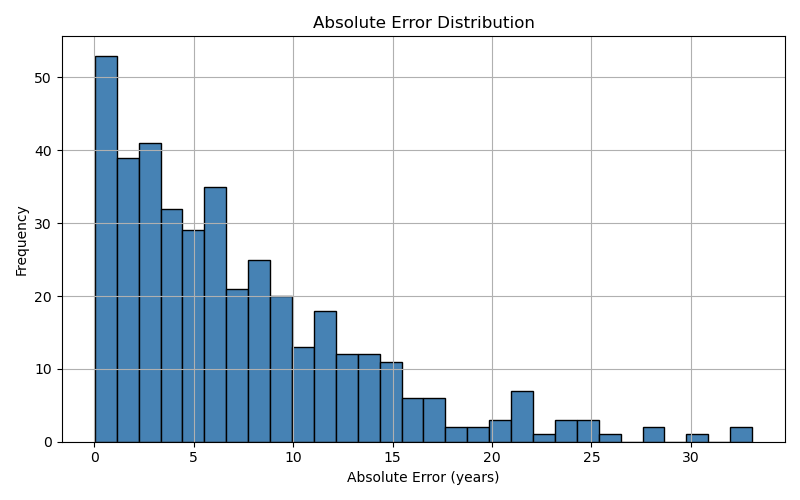
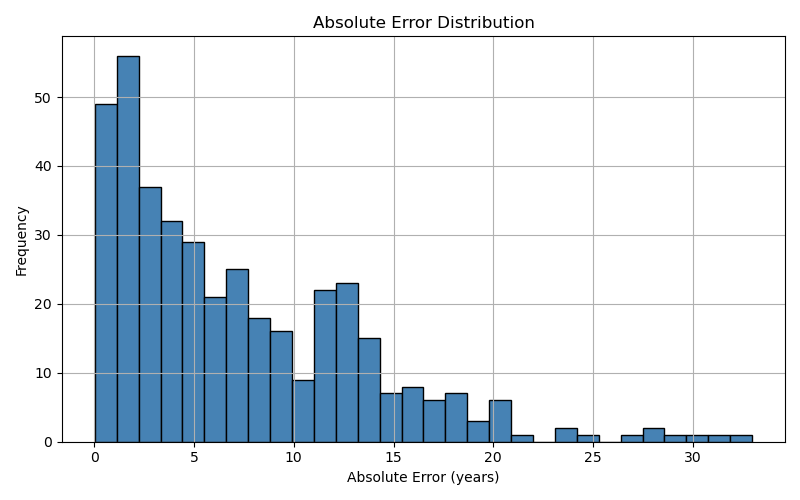
Versión nueva con Function Loss personaliza más sensible ante outliers

diff --git a/scripts/train.py b/scripts/train.py
@@ -6,6 +6,16 @@ import os
 
 from sklearn.metrics import mean_absolute_error
 
+class WeightedMAE(nn.Module):
+    def __init__(self):
+        super().__init__()
+
+    def forward(self, preds, targets):
+        abs_error = torch.abs(preds - targets)
+        weights = 1 + ((targets < 10) | (targets > 60)).float() * 2
+        weighted_error = abs_error * weights
+        return torch.mean(weighted_error)
+
 def freeze_backbone(model):
     for param in model.backbone.parameters():
         param.requires_grad = False
@@ -23,7 +33,7 @@ def train_model(model, train_loader, val_loader, device, epochs=25, save_path="c
     os.makedirs(os.path.dirname(save_path), exist_ok=True)
 
     freeze_backbone(model)
-    criterion = nn.HuberLoss()
+    criterion = WeightedMAE()
     optimizer = Adam(model.parameters(), lr=1e-4, weight_decay=1e-5)
     scheduler = torch.optim.lr_scheduler.ReduceLROnPlateau(optimizer, mode='min', factor=0.5, patience=3, verbose=True)
 
